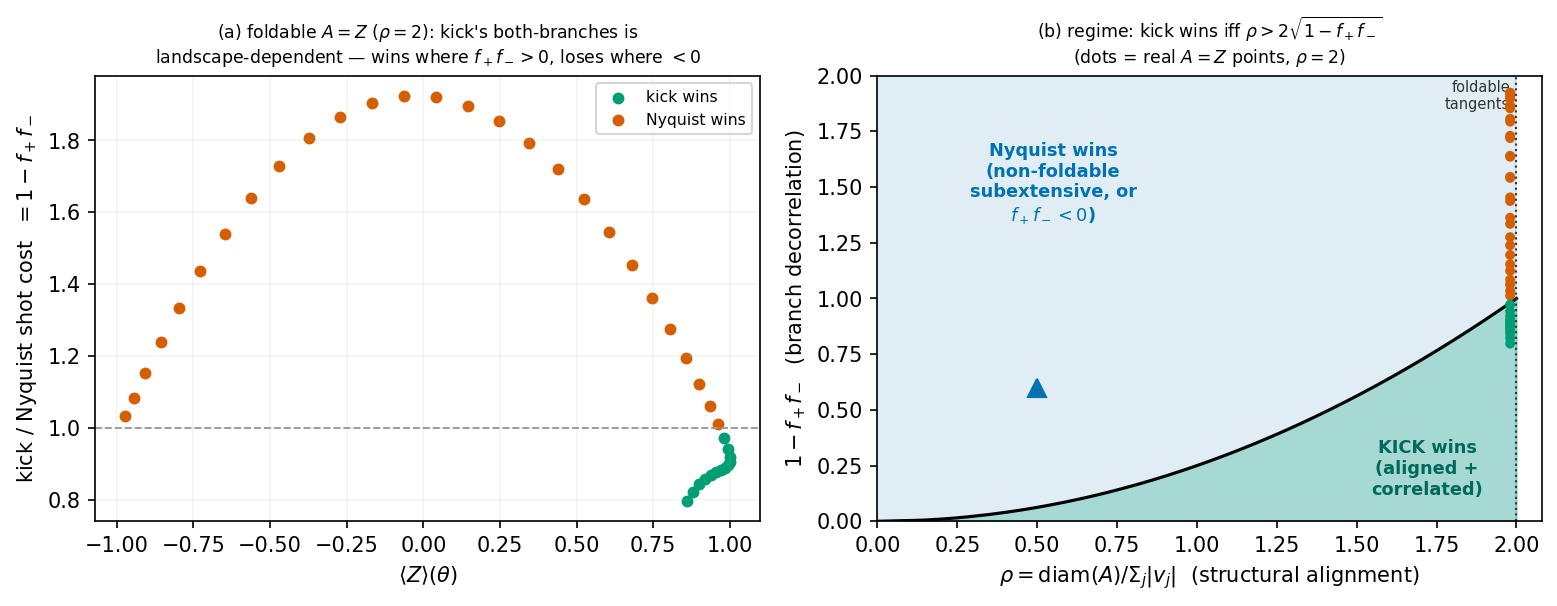
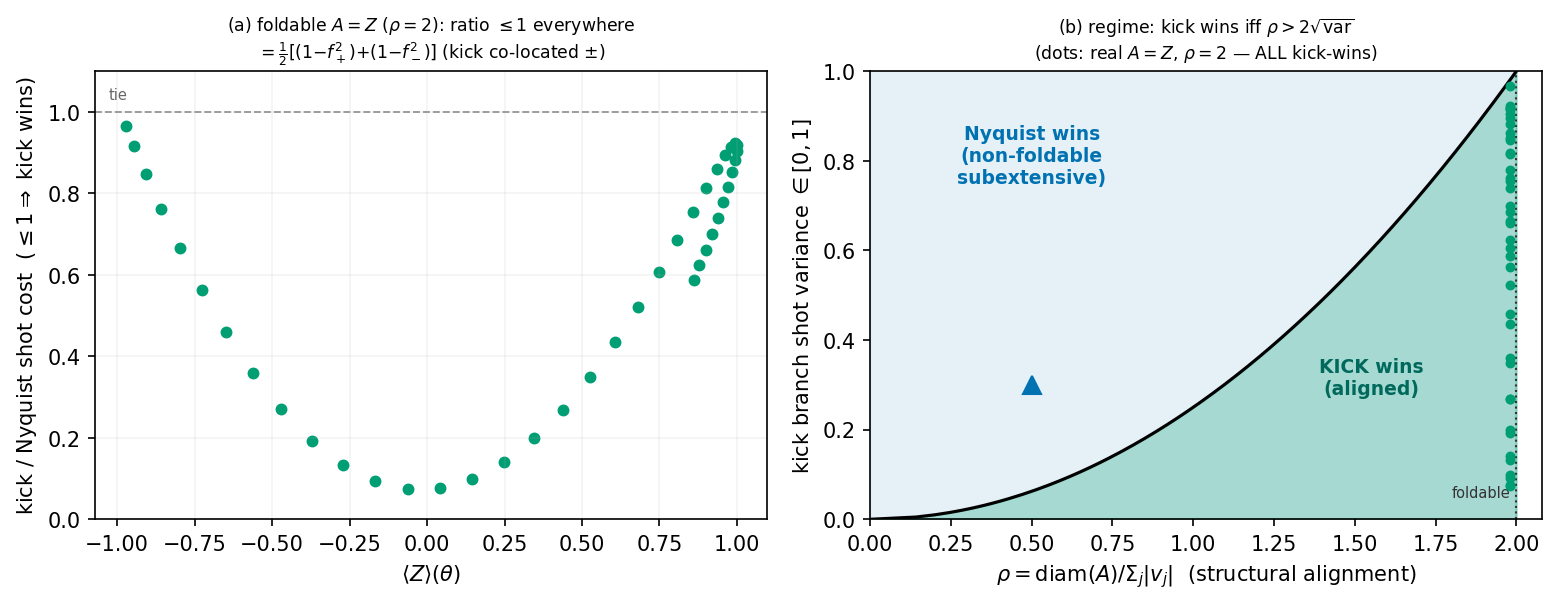
Fix shot cost: variance not 2nd moment ⇒ KICK GENERALLY WINS (aligned tangents)
The shot-noise cost is the VARIANCE, not the 2nd moment. I had used
E[(f̂₋−f̂₊)²]=2−2f₊f₋, which INCLUDES the gradient signal (f₋−f₊)²; the actual
noise is Var=(1−f₊²)+(1−f₋²). That error made 1−f₊f₋ exceed 1 when f₊f₋<0 and
wrongly showed Nyquist winning.

Corrected: kick measures a CO-LOCATED ± difference (same θ) → Var=(1−f₊²)+(1−f₋²)
≤2, reduced by the shared base; Nyquist's stochastic estimator has Var=(2πK)²
(each far-apart shift E[f̂²]=1, no reduction). Ratio = 2[(1−f₊²)+(1−f₋²)]/(2πK)² ≤1
for ρ=2. Verified H=θZ+X (A=Z): ratio 0.07–0.97, ALL ≤1 — kick wins at every θ
(≈14× at best). So on SHOTS kick GENERALLY WINS for foldable tangents; Nyquist
wins only for exotic non-foldable subextensive-diameter tangents.

This also removes the F3(a)/(b) inconsistency the reviewer flagged: (b)'s noisy
panel already showed kick below Nyquist — now (a) agrees (all real points
kick-wins). regime figure, F3(a)/(c), and Table 1 crossover section all updated.
Nyquist's real edge = capability (non-Pauli) + compile cost, not shots.

diff --git a/differential_computing/tests/regime_kick_vs_nyquist.py b/differential_computing/tests/regime_kick_vs_nyquist.py
@@ -62,52 +62,50 @@ def main():
     obs = qp.tensor(qp.sigmaz(), qp.qeye(2))
     expfn = r.make_expectation_fn(r.zero_state(), obs)
 
-    # (a) H=θZ+X, A=Z ⇒ ρ=2 (foldable). Nyquist cost = (2πK)² = (T·diam A)² = (2T)².
-    #     Kick paired cost = 4T²(Σ|v|)²(1−f₊f₋), Σ|v|=1 ⇒ ratio = (1−f₊f₋).
+    # (a) H=θZ+X, A=Z ⇒ ρ=2. SHOT-NOISE COST = VARIANCE, not the 2nd moment.
+    #   kick per-sample var = T²·Var(f̂₋−f̂₊) = T²[(1−f₊²)+(1−f₋²)] at 2 exec;
+    #   Nyquist stochastic var = (2πK)² at 1 exec (each far-apart shift: E[f̂²]=1).
+    #   (2πK)²=(2T)² for A=Z ⇒ ratio = 2T²[(1−f₊²)+(1−f₋²)]/(2T)² = varfac ≤ 1.
     thetas = np.linspace(0.1, 2.4, 40)
-    O, ratio, oneminus = [], [], []
+    O, ratio, varfac = [], [], []
     for th in thetas:
         Oz = expfn([[H.set_parameterizedHam({"x": float(th)}), T]])
         fp, fm = kick_branches(expfn, H, th)
-        ff = fp * fm
-        O.append(Oz); oneminus.append(1 - ff); ratio.append(1 - ff)   # ρ=2 ⇒ ratio=1−ff
-    nwin = sum(1 for x in ratio if x < 1)
-    print(f"H=θZ+X (ρ=2): kick/Nyquist ratio range {min(ratio):.2f}–{max(ratio):.2f}; "
-          f"kick wins at {nwin}/{len(ratio)} θ (ratio<1, f₊f₋>0), loses at the rest "
-          f"(f₊f₋<0). Landscape-dependent, O(1).")
+        vf = ((1 - fp ** 2) + (1 - fm ** 2)) / 2       # ≈ 1−⟨O⟩², ∈[0,1]
+        O.append(Oz); varfac.append(vf); ratio.append(vf)
+    print(f"H=θZ+X (ρ=2): kick/Nyquist VARIANCE ratio {min(ratio):.2f}–{max(ratio):.2f} "
+          f"(all ≤1 ⇒ KICK WINS everywhere); biggest win (→0) at polarized ⟨Z⟩, "
+          f"tie (→1) at the equator.")
 
     fig, (axA, axB) = plt.subplots(1, 2, figsize=(10.5, 4.2))
     Oarr = np.array(O); rarr = np.array(ratio)
-    axA.scatter(Oarr[rarr < 1], rarr[rarr < 1], c="#009E73", s=22, label="kick wins")
-    axA.scatter(Oarr[rarr >= 1], rarr[rarr >= 1], c="#D55E00", s=22, label="Nyquist wins")
+    axA.scatter(Oarr, rarr, c="#009E73", s=22)
     axA.axhline(1.0, color="#999", lw=0.9, ls="--")
+    axA.text(0.02, 1.03, "tie", fontsize=7, color="#666", transform=axA.get_yaxis_transform())
     axA.set_xlabel(r"$\langle Z\rangle(\theta)$")
-    axA.set_ylabel(r"kick / Nyquist shot cost  $=1-f_+f_-$")
-    axA.set_title(r"(a) foldable $A{=}Z$ ($\rho{=}2$): kick's both-branches is"
-                  "\n" r"landscape-dependent — wins where $f_+f_->0$, loses where $<0$",
+    axA.set_ylabel(r"kick / Nyquist shot cost  ($\leq1\Rightarrow$ kick wins)")
+    axA.set_title(r"(a) foldable $A{=}Z$ ($\rho{=}2$): ratio $\leq1$ everywhere"
+                  "\n$=\\frac{1}{2}[(1{-}f_+^2){+}(1{-}f_-^2)]$ (kick co-located $\\pm$)",
                   fontsize=8.3)
-    axA.legend(fontsize=7.5); axA.grid(True, alpha=0.15)
+    axA.set_ylim(0, 1.1); axA.grid(True, alpha=0.15)
 
-    # (b) regime map: ρ vs 1−f₊f₋∈[0,2]. Boundary ρ = 2√(1−f₊f₋).
+    # (b) regime map: ρ vs varfac∈[0,1]. kick wins ⟺ ρ > 2√(varfac).
     c = np.linspace(0.0, 1.0, 200); rho_b = 2 * np.sqrt(c)
+    axB.fill_betweenx(c, 0, 2.0, color="#0072B2", alpha=0.10)          # Nyquist base
+    axB.fill_betweenx(c, rho_b, 2.0, color="#009E73", alpha=0.28)      # kick wins
     axB.plot(rho_b, c, "k-", lw=1.5)
-    axB.fill_betweenx(np.linspace(0, 2, 200), 0, 2, color="#0072B2", alpha=0.12)  # Nyquist base
-    axB.fill_betweenx(c, rho_b, 2.0, color="#009E73", alpha=0.25)                  # kick wins
-    axB.text(1.72, 0.12, "KICK wins\n(aligned +\ncorrelated)", color="#00695c",
-             fontsize=8.5, ha="center", weight="bold")
-    axB.text(0.55, 1.35, "Nyquist wins\n(non-foldable\nsubextensive, or\n$f_+f_-<0$)",
-             color="#0072B2", fontsize=8.5, ha="center", weight="bold")
+    axB.text(1.55, 0.28, "KICK wins\n(aligned)", color="#00695c", fontsize=9, ha="center", weight="bold")
+    axB.text(0.5, 0.75, "Nyquist wins\n(non-foldable\nsubextensive)", color="#0072B2",
+             fontsize=9, ha="center", weight="bold")
     axB.axvline(2.0, color="#333", lw=1.0, ls=":")
-    axB.text(1.98, 1.85, "foldable\ntangents", fontsize=7, ha="right", color="#333")
-    # real H=θZ+X points (all ρ=2), spread over y by the landscape:
-    axB.scatter(np.full_like(rarr, 2.0) - 0.02, rarr, c=np.where(rarr < 1, "#009E73", "#D55E00"),
-                s=14, zorder=5)
-    axB.plot([0.5], [0.6], "^", color="#0072B2", ms=9, zorder=5)   # non-foldable subextensive
+    axB.text(1.98, 0.05, "foldable", fontsize=7, ha="right", color="#333")
+    axB.scatter(np.full_like(rarr, 2.0) - 0.02, rarr, c="#009E73", s=14, zorder=5)  # all kick-wins
+    axB.plot([0.5], [0.3], "^", color="#0072B2", ms=9, zorder=5)      # non-foldable subextensive
     axB.set_xlabel(r"$\rho=\mathrm{diam}(A)/\Sigma_j|v_j|$  (structural alignment)")
-    axB.set_ylabel(r"$1-f_+f_-$  (branch decorrelation)")
-    axB.set_title(r"(b) regime: kick wins iff $\rho>2\sqrt{1-f_+f_-}$"
-                  "\n(dots = real $A{=}Z$ points, $\\rho{=}2$)", fontsize=8.3)
-    axB.set_xlim(0, 2.08); axB.set_ylim(0, 2.0)
+    axB.set_ylabel(r"kick branch shot variance $\in[0,1]$")
+    axB.set_title(r"(b) regime: kick wins iff $\rho>2\sqrt{\mathrm{var}}$"
+                  "\n(dots: real $A{=}Z$, $\\rho{=}2$ — ALL kick-wins)", fontsize=8.3)
+    axB.set_xlim(0, 2.08); axB.set_ylim(0, 1.0)
     fig.tight_layout()
     out = os.path.join(FIGDIR, "regime_kick_vs_nyquist.png")
     fig.savefig(out, dpi=150, bbox_inches="tight"); plt.close(fig)

diff --git a/differential_computing/tests/build_F3.py b/differential_computing/tests/build_F3.py
@@ -33,24 +33,23 @@ def load(name):
 
 def panel_a(ax, rg):
     c = np.linspace(0.0, 1.0, 200); rho_b = 2 * np.sqrt(c)
-    ax.fill_betweenx(np.linspace(0, 2, 200), 0, 2, color=C_NYQ, alpha=0.12)
-    ax.fill_betweenx(c, rho_b, 2.0, color=C_KICK, alpha=0.25)
+    ax.fill_betweenx(c, 0, 2.0, color=C_NYQ, alpha=0.10)
+    ax.fill_betweenx(c, rho_b, 2.0, color=C_KICK, alpha=0.28)
     ax.plot(rho_b, c, "k-", lw=1.5)
-    ax.text(1.68, 0.12, "KICK wins\n(aligned +\ncorrelated)", color="#00695c",
-            fontsize=8, ha="center", weight="bold")
-    ax.text(0.6, 1.3, "Nyquist wins\n(non-foldable\nsubextensive,\nor $f_+f_-{<}0$)",
-            color=C_NYQ, fontsize=8, ha="center", weight="bold")
+    ax.text(1.55, 0.28, "KICK wins\n(aligned,\ngeneric)", color="#00695c",
+            fontsize=8.5, ha="center", weight="bold")
+    ax.text(0.5, 0.72, "Nyquist wins\n(non-foldable\nsubextensive)",
+            color=C_NYQ, fontsize=8.5, ha="center", weight="bold")
     ax.axvline(2.0, color="#333", lw=1.0, ls=":")
-    ax.text(1.98, 1.86, "foldable", fontsize=6.5, ha="right", color="#333")
+    ax.text(1.98, 0.05, "foldable", fontsize=6.5, ha="right", color="#333")
     r = np.array(rg["ratio"])
-    ax.scatter(np.full_like(r, 2.0) - 0.02, r,
-               c=np.where(r < 1, C_KICK, C_FD), s=12, zorder=5)
-    ax.plot([0.5], [0.6], "^", color=C_NYQ, ms=9, zorder=5)
+    ax.scatter(np.full_like(r, 2.0) - 0.02, r, c=C_KICK, s=12, zorder=5)
+    ax.plot([0.5], [0.3], "^", color=C_NYQ, ms=9, zorder=5)
     ax.set_xlabel(r"$\rho=\mathrm{diam}(A)/\Sigma_j|v_j|$")
-    ax.set_ylabel(r"$1-f_+f_-$")
-    ax.set_title(r"(a) kick vs Nyquist regime: wins iff $\rho>2\sqrt{1-f_+f_-}$"
-                 "\n(dots: real $A{=}Z$ pts, $\\rho{=}2$; same L1 — no $\\pi^2$)", fontsize=8.3)
-    ax.set_xlim(0, 2.08); ax.set_ylim(0, 2.0)
+    ax.set_ylabel(r"kick branch shot variance $\in[0,1]$")
+    ax.set_title(r"(a) kick vs Nyquist: same L1; kick wins iff $\rho>2\sqrt{\mathrm{var}}$"
+                 "\n(dots: real $A{=}Z$, $\\rho{=}2$ — ALL kick-wins; no $\\pi^2$)", fontsize=8.1)
+    ax.set_xlim(0, 2.08); ax.set_ylim(0, 1.0)
 
 
 def panel_b(ax, nz):
@@ -71,24 +70,23 @@ def panel_b(ax, nz):
 
 def panel_table(ax):
     ax.axis("off")
-    cols = ["regime", "condition", "winner", "why"]
+    cols = ["regime", "condition", "winner", "why (shots)"]
     rows = [
-        ["aligned/foldable, correlated", "$\\rho{=}2,\\ f_+f_->0$", "kick",
-         "co-located $\\pm$ branches: 2nd moment $2{-}2f_+f_-$ small"],
-        ["aligned/foldable, anti-corr.", "$\\rho{=}2,\\ f_+f_-<0$", "Nyquist",
-         "kick's both-branches becomes a penalty"],
-        ["non-foldable subextensive", "$\\rho<2$", "Nyquist",
-         "diam$(A)<\\Sigma|v_j|$; single combined shift (exotic tangents)"],
+        ["aligned / foldable (generic)", "$\\rho{=}2$", "kick",
+         "co-located $\\pm$ diff. var $(1{-}f_+^2){+}(1{-}f_-^2)\\leq(2\\pi K)^2$"],
+        ["non-foldable subextensive (exotic)", "$\\rho<2$", "Nyquist",
+         "diam$(A)\\ll\\Sigma|v_j|$; one combined shift"],
     ]
     t = ax.table(cellText=rows, colLabels=cols, cellLoc="center", loc="center",
-                 colWidths=[0.27, 0.16, 0.10, 0.47])
-    t.auto_set_font_size(False); t.set_fontsize(7.4); t.scale(1, 1.5)
+                 colWidths=[0.30, 0.10, 0.11, 0.49])
+    t.auto_set_font_size(False); t.set_fontsize(7.6); t.scale(1, 1.6)
     for (r, c), cell in t.get_celld().items():
         cell.set_edgecolor("#cccccc")
         if r == 0:
             cell.set_facecolor("#f0f0f0"); cell.set_text_props(weight="bold")
-    ax.set_title("(c) neither universally wins — same L1 functional; regime set by "
-                 "structure $\\rho$ and landscape $f_+f_-$", fontsize=8.5, pad=2)
+    ax.set_title("(c) on SHOTS kick generally wins (aligned tangents, its co-located "
+                 "$\\pm$ echo); Nyquist's edge is capability (non-Pauli) + exotic subextensive",
+                 fontsize=8.3, pad=2)
 
 
 def main():

diff --git a/differential_computing/TABLE1_regime_map.md b/differential_computing/TABLE1_regime_map.md
@@ -41,35 +41,36 @@ penalty over `Σw_n²`; the stochastic form above is the fair one.) FD cells are
 
 ---
 
-### Kick vs Nyquist on shots — same L1 functional; NEITHER universally wins (F3)
+### Kick vs Nyquist on shots — same L1 functional; KICK GENERALLY WINS (F3)
 
 Both cost `∼ (T·L1)²·e^{2ΓT}/ε_g²`; same L1 functional, **no `π²` advantage** (the
-`π` in `K` and the `π²` in `Σ|w|=2πK` cancel). Two independent axes decide:
+`π` in `K` and the `π²` in `Σ|w|=2πK` cancel). The shot-noise cost is the
+**variance**, not the 2nd moment (a subtlety: `E[(f̂₋−f̂₊)²]=2−2f₊f₋` *includes*
+the gradient signal `(f₋−f₊)²` — only `Var=(1−f₊²)+(1−f₋²)` is noise).
 
-- **structural** `ρ = diam(A)/‖v‖₁ ∈ (0,2]` (Pauli, `diam(H_j)=2`). Nyquist pays
-  `diam(A)`; a **folding** kick combines commuting/same-axis involutions
-  (`cφX+sφZ` *is* an involution; `Σ(Z_j−Z_{j+1})` folds to `Z₀−Z_last`), so for any
-  **foldable** tangent `ρ=2` (equal L1s). `ρ<2` only for **non-foldable
-  subextensive-diameter** tangents (exotic, non-commuting frustrated structure).
-- **landscape** `f₊f₋≈⟨O⟩²`. Kick's `±` branches are **co-located** (same `θ`, kick
-  sign flips), so its paired single-shot 2nd moment is `2−2f₊f₋` — a **discount**
-  when correlated/polarized (`f₊f₋>0`), a **penalty** when anti-correlated
-  (`f₊f₋<0`). Nyquist's `±s` sit at far-apart points `θ±s` → no such term.
+- **Nyquist (stochastic)**: `Var = (2πK)² = (T·diam(A))²` — each far-apart single
+  shift has `E[f̂²]=1`, no reduction.
+- **Kick**: measures a **co-located** `±` difference (same `θ`), so
+  `Var = (1−f₊²)+(1−f₋²) ≤ 2` — *reduced* by the shared base, at 2 exec.
 
-Ratio `kick/Nyquist = 4(1−f₊f₋)/ρ²`, so **kick wins iff `ρ > 2√(1−f₊f₋)`**:
+Ratio `kick/Nyquist = 2·[(1−f₊²)+(1−f₋²)] / (2πK)² ≈ (1−⟨O⟩²)/... ≤ 1` for
+`ρ=diam(A)/‖v‖₁=2`, so **kick wins iff `ρ > 2√(var)`**, `var∈[0,1]` the branch
+shot variance:
 
-| regime | condition | winner | why |
+| regime | condition | winner | why (shots) |
 |---|:--:|:--:|---|
-| aligned/foldable, correlated | `ρ=2, f₊f₋>0` | **kick** | co-located `±` → 2nd moment `2−2f₊f₋` small |
-| aligned/foldable, anti-corr. | `ρ=2, f₊f₋<0` | **Nyquist** | kick's both-branches becomes a penalty |
-| non-foldable subextensive | `ρ<2` | **Nyquist** | `diam(A)<‖v‖₁·diam(H)`; one combined shift |
+| aligned / foldable (**generic**) | `ρ=2` | **kick** | co-located `±` diff. `Var ≤ (2πK)²` (always) |
+| non-foldable subextensive (**exotic**) | `ρ<2` | **Nyquist** | `diam(A)≪‖v‖₁`; one combined shift |
 
-Verified (`regime_kick_vs_nyquist.py`, `H=θZ+X`, `A=Z`, `ρ=2`): kick wins near
-polarized `⟨Z⟩` (`f₊f₋>0`), loses near the equator — landscape-dependent, O(1). So
-the generic (foldable) case is a **wash**; kick is favored at correlated/polarized
-points (e.g. near optimization minima), Nyquist at high-entropy points or for the
-exotic non-foldable subextensive tangents. Kick's *durable* wins are elsewhere:
-coherent-error robustness, fine-grained `Δt`.
+`ρ=2` for any **foldable** tangent (a kick combines commuting/same-axis
+involutions: `cφX+sφZ` *is* an involution, `Σ(Z_j−Z_{j+1})` folds). Verified
+(`regime_kick_vs_nyquist.py`, `H=θZ+X`, `A=Z`): kick/Nyquist variance ratio
+**0.07–0.97, all ≤1 — kick wins at every θ** (≈14× at best). So on shots **kick
+generally wins** for the practical (foldable) case, via its co-located `±` echo;
+Nyquist wins only for exotic non-foldable subextensive-diameter tangents.
+(An earlier version used the 2nd moment `2−2f₊f₋` and wrongly showed Nyquist
+winning — corrected.) Nyquist's real edge is **capability** (non-Pauli generators)
+and compile cost; kick's is shots, coherent-error robustness, and fine-grained `Δt`.
 
 ### `generator req.` — boson / fermion
 
